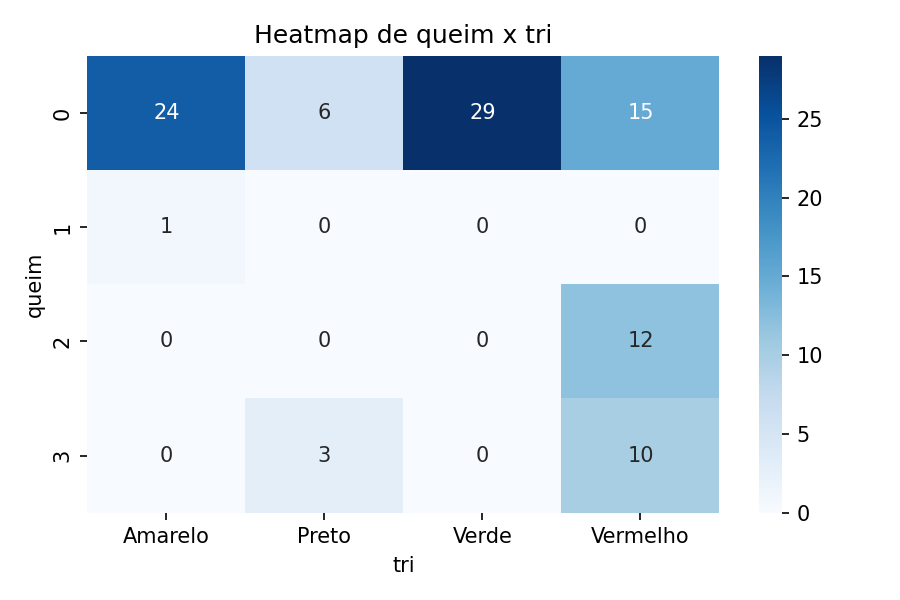
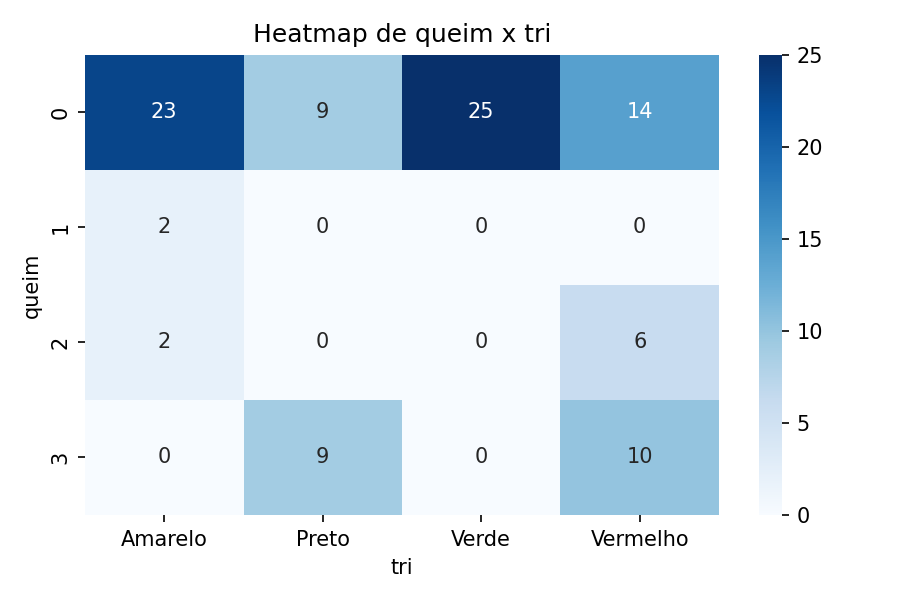
regerado por causa de mudança na ordem dos atributos

diff --git a/datasets/vict/100v/relatorios/summary_cat_x_cat.md b/datasets/vict/100v/relatorios/summary_cat_x_cat.md
@@ -11,19 +11,19 @@ Este relatório apresenta a análise de associação entre variáveis categóric
 
 | avpu   |   Amarelo |   Preto |   Verde |   Vermelho |
 |:-------|----------:|--------:|--------:|-----------:|
-| A      |        10 |       0 |      28 |          0 |
-| P      |         0 |       0 |       1 |         37 |
-| U      |         0 |       9 |       0 |          0 |
-| V      |        15 |       0 |       0 |          0 |
+| A      |        13 |       0 |      25 |          0 |
+| P      |         0 |       0 |       0 |         30 |
+| U      |         0 |      18 |       0 |          0 |
+| V      |        14 |       0 |       0 |          0 |
 
 ### Tabela de Proporções por Linha (%)
 
 | avpu   |   Amarelo |   Preto |   Verde |   Vermelho |
 |:-------|----------:|--------:|--------:|-----------:|
-| A      |     26.32 |       0 |   73.68 |       0    |
-| P      |      0    |       0 |    2.63 |      97.37 |
-| U      |      0    |     100 |    0    |       0    |
-| V      |    100    |       0 |    0    |       0    |
+| A      |     34.21 |       0 |   65.79 |          0 |
+| P      |      0    |       0 |    0    |        100 |
+| U      |      0    |     100 |    0    |          0 |
+| V      |    100    |       0 |    0    |          0 |
 
 ### Heatmap
 
@@ -35,7 +35,7 @@ Este relatório apresenta a análise de associação entre variáveis categóric
 
 ### Teste Qui-Quadrado
 
-- Qui2 = 239.1289
+- Qui2 = 234.1131
 - p-valor = 0.0000
 - Graus de liberdade = 9
 
@@ -47,19 +47,19 @@ Este relatório apresenta a análise de associação entre variáveis categóric
 
 |   queim |   Amarelo |   Preto |   Verde |   Vermelho |
 |--------:|----------:|--------:|--------:|-----------:|
-|       0 |        24 |       6 |      29 |         15 |
-|       1 |         1 |       0 |       0 |          0 |
-|       2 |         0 |       0 |       0 |         12 |
-|       3 |         0 |       3 |       0 |         10 |
+|       0 |        23 |       9 |      25 |         14 |
+|       1 |         2 |       0 |       0 |          0 |
+|       2 |         2 |       0 |       0 |          6 |
+|       3 |         0 |       9 |       0 |         10 |
 
 ### Tabela de Proporções por Linha (%)
 
 |   queim |   Amarelo |   Preto |   Verde |   Vermelho |
 |--------:|----------:|--------:|--------:|-----------:|
-|       0 |     32.43 |    8.11 |   39.19 |      20.27 |
+|       0 |     32.39 |   12.68 |   35.21 |      19.72 |
 |       1 |    100    |    0    |    0    |       0    |
-|       2 |      0    |    0    |    0    |     100    |
-|       3 |      0    |   23.08 |    0    |      76.92 |
+|       2 |     25    |    0    |    0    |      75    |
+|       3 |      0    |   47.37 |    0    |      52.63 |
 
 ### Heatmap
 
@@ -71,7 +71,7 @@ Este relatório apresenta a análise de associação entre variáveis categóric
 
 ### Teste Qui-Quadrado
 
-- Qui2 = 48.8622
+- Qui2 = 43.8337
 - p-valor = 0.0000
 - Graus de liberdade = 9
 
@@ -83,19 +83,19 @@ Este relatório apresenta a análise de associação entre variáveis categóric
 
 |   sg |   Amarelo |   Preto |   Verde |   Vermelho |
 |-----:|----------:|--------:|--------:|-----------:|
-|    0 |         0 |       0 |      28 |          0 |
+|    0 |         0 |       0 |      25 |          0 |
 |    1 |        11 |       0 |       0 |          0 |
-|    2 |        14 |       0 |       0 |          0 |
-|    3 |         0 |       9 |       1 |         37 |
+|    2 |        16 |       0 |       0 |          0 |
+|    3 |         0 |      18 |       0 |         30 |
 
 ### Tabela de Proporções por Linha (%)
 
 |   sg |   Amarelo |   Preto |   Verde |   Vermelho |
 |-----:|----------:|--------:|--------:|-----------:|
-|    0 |         0 |    0    |  100    |       0    |
-|    1 |       100 |    0    |    0    |       0    |
-|    2 |       100 |    0    |    0    |       0    |
-|    3 |         0 |   19.15 |    2.13 |      78.72 |
+|    0 |         0 |     0   |     100 |        0   |
+|    1 |       100 |     0   |       0 |        0   |
+|    2 |       100 |     0   |       0 |        0   |
+|    3 |         0 |    37.5 |       0 |       62.5 |
 
 ### Heatmap
 
@@ -107,7 +107,7 @@ Este relatório apresenta a análise de associação entre variáveis categóric
 
 ### Teste Qui-Quadrado
 
-- Qui2 = 194.4974
+- Qui2 = 200.0000
 - p-valor = 0.0000
 - Graus de liberdade = 9
 
@@ -119,15 +119,15 @@ Este relatório apresenta a análise de associação entre variáveis categóric
 
 |   fx |   Amarelo |   Preto |   Verde |   Vermelho |
 |-----:|----------:|--------:|--------:|-----------:|
-|    0 |        16 |       4 |       0 |          0 |
-|    1 |         9 |       5 |      29 |         37 |
+|    0 |        17 |       7 |       0 |          0 |
+|    1 |        10 |      11 |      25 |         30 |
 
 ### Tabela de Proporções por Linha (%)
 
 |   fx |   Amarelo |   Preto |   Verde |   Vermelho |
 |-----:|----------:|--------:|--------:|-----------:|
-|    0 |     80    |   20    |    0    |       0    |
-|    1 |     11.25 |    6.25 |   36.25 |      46.25 |
+|    0 |     70.83 |   29.17 |    0    |       0    |
+|    1 |     13.16 |   14.47 |   32.89 |      39.47 |
 
 ### Heatmap
 
@@ -139,7 +139,7 @@ Este relatório apresenta a análise de associação entre variáveis categóric
 
 ### Teste Qui-Quadrado
 
-- Qui2 = 50.1111
+- Qui2 = 42.0281
 - p-valor = 0.0000
 - Graus de liberdade = 3
 
@@ -151,27 +151,27 @@ Este relatório apresenta a análise de associação entre variáveis categóric
 
 |   gcs |   Amarelo |   Preto |   Verde |   Vermelho |
 |------:|----------:|--------:|--------:|-----------:|
-|     3 |         0 |       1 |       0 |          0 |
-|     4 |         0 |       6 |       0 |          0 |
-|     5 |         0 |       2 |       0 |          0 |
-|     9 |         0 |       0 |       1 |         12 |
-|    10 |         0 |       0 |       0 |         10 |
-|    11 |         0 |       0 |       0 |         15 |
-|    13 |        25 |       0 |       0 |          0 |
-|    15 |         0 |       0 |      28 |          0 |
+|     3 |         0 |       7 |       0 |          0 |
+|     4 |         0 |       3 |       0 |          0 |
+|     5 |         0 |       8 |       0 |          0 |
+|     9 |         0 |       0 |       0 |         13 |
+|    10 |         0 |       0 |       0 |         11 |
+|    11 |         0 |       0 |       0 |          6 |
+|    13 |        27 |       0 |       0 |          0 |
+|    15 |         0 |       0 |      25 |          0 |
 
 ### Tabela de Proporções por Linha (%)
 
 |   gcs |   Amarelo |   Preto |   Verde |   Vermelho |
 |------:|----------:|--------:|--------:|-----------:|
-|     3 |         0 |     100 |    0    |       0    |
-|     4 |         0 |     100 |    0    |       0    |
-|     5 |         0 |     100 |    0    |       0    |
-|     9 |         0 |       0 |    7.69 |      92.31 |
-|    10 |         0 |       0 |    0    |     100    |
-|    11 |         0 |       0 |    0    |     100    |
-|    13 |       100 |       0 |    0    |       0    |
-|    15 |         0 |       0 |  100    |       0    |
+|     3 |         0 |     100 |       0 |          0 |
+|     4 |         0 |     100 |       0 |          0 |
+|     5 |         0 |     100 |       0 |          0 |
+|     9 |         0 |       0 |       0 |        100 |
+|    10 |         0 |       0 |       0 |        100 |
+|    11 |         0 |       0 |       0 |        100 |
+|    13 |       100 |       0 |       0 |          0 |
+|    15 |         0 |       0 |     100 |          0 |
 
 ### Heatmap
 
@@ -183,7 +183,7 @@ Este relatório apresenta a análise de associação entre variáveis categóric
 
 ### Teste Qui-Quadrado
 
-- Qui2 = 294.3222
+- Qui2 = 300.0000
 - p-valor = 0.0000
 - Graus de liberdade = 21
 

diff --git a/datasets/vict/100v/summary.md b/datasets/vict/100v/summary.md
@@ -4,57 +4,57 @@
 - **Número de linhas**: 100
 
 ## Estatísticas (numéricas)
-| coluna   |   mín |   máx |   média |
-|:---------|------:|------:|--------:|
-| idade    | 17    |    54 |  33.99  |
-| fc       |  0    |   166 | 103.43  |
-| fr       |  0    |    46 |  24.94  |
-| pas      |  0    |   138 |  87.31  |
-| spo2     | 14    |   100 |  83.79  |
-| gcs      |  3    |    15 |  11.64  |
-| sobr     |  0.03 |     1 |   0.667 |
+| coluna   |   mín |    máx |   média |
+|:---------|------:|-------:|--------:|
+| idade    | 13    |  70    |  39.84  |
+| fc       |  0    | 157    |  91.04  |
+| fr       |  0    |  44    |  21.68  |
+| pas      |  0    | 127    |  79.29  |
+| spo2     | 10    |  99    |  79.4   |
+| gcs      |  3    |  15    |  10.92  |
+| sobr     |  0.01 |   0.99 |   0.638 |
 
 ## Contagem por valor (categóricas)
 ### `pr`
 |   código | valor   |   contagem | %      |
 |---------:|:--------|-----------:|:-------|
-|        0 | N       |         61 | 61.00% |
-|        1 | S       |         39 | 39.00% |
+|        0 | N       |         58 | 58.00% |
+|        1 | S       |         42 | 42.00% |
 
 ### `queim`
 |   código | valor    |   contagem | %      |
 |---------:|:---------|-----------:|:-------|
-|        0 | NAO      |         74 | 74.00% |
-|        1 | LEVE     |          1 | 1.00%  |
-|        2 | MODERADO |         12 | 12.00% |
-|        3 | GRAVE    |         13 | 13.00% |
+|        0 | NAO      |         71 | 71.00% |
+|        1 | LEVE     |          2 | 2.00%  |
+|        2 | MODERADO |          8 | 8.00%  |
+|        3 | GRAVE    |         19 | 19.00% |
 
 ### `fx`
 |   código | valor   |   contagem | %      |
 |---------:|:--------|-----------:|:-------|
-|        0 | N       |         20 | 20.00% |
-|        1 | S       |         80 | 80.00% |
+|        0 | N       |         24 | 24.00% |
+|        1 | S       |         76 | 76.00% |
 
 ### `sg`
 |   código | valor    |   contagem | %      |
 |---------:|:---------|-----------:|:-------|
-|        0 | NAO      |         28 | 28.00% |
+|        0 | NAO      |         25 | 25.00% |
 |        1 | LEVE     |         11 | 11.00% |
-|        2 | MODERADO |         14 | 14.00% |
-|        3 | GRAVE    |         47 | 47.00% |
+|        2 | MODERADO |         16 | 16.00% |
+|        3 | GRAVE    |         48 | 48.00% |
 
 ### `avpu`
 |   código | valor   |   contagem | %      |
 |---------:|:--------|-----------:|:-------|
 |        0 | A       |         38 | 38.00% |
-|        1 | V       |         15 | 15.00% |
-|        2 | P       |         38 | 38.00% |
-|        3 | U       |          9 | 9.00%  |
+|        1 | V       |         14 | 14.00% |
+|        2 | P       |         30 | 30.00% |
+|        3 | U       |         18 | 18.00% |
 
 ### `tri`
 |   código | valor    |   contagem | %      |
 |---------:|:---------|-----------:|:-------|
-|        0 | VERDE    |         29 | 29.00% |
-|        1 | AMARELO  |         25 | 25.00% |
-|        2 | VERMELHO |         37 | 37.00% |
-|        3 | PRETO    |          9 | 9.00%  |
+|        0 | VERDE    |         25 | 25.00% |
+|        1 | AMARELO  |         27 | 27.00% |
+|        2 | VERMELHO |         30 | 30.00% |
+|        3 | PRETO    |         18 | 18.00% |

diff --git a/datasets/vict/100v/relatorios/summary_correlations.md b/datasets/vict/100v/relatorios/summary_correlations.md
@@ -10,7 +10,7 @@ Este relatório apresenta a análise de correlação entre variáveis numéricas
 
 ## fc × sobr
 
-- r = -0.017, p = 0.866, N = 100, modo = LOWESS
+- r = 0.414, p = 1.85e-05, N = 100, modo = LOWESS
 
 ![fc × sobr](figs/correlacao_fc_sobr.png)
 
@@ -19,7 +19,7 @@ Este relatório apresenta a análise de correlação entre variáveis numéricas
 
 ## fr × sobr
 
-- r = -0.195, p = 0.052, N = 100, modo = LOWESS
+- r = 0.211, p = 0.035, N = 100, modo = LOWESS
 
 ![fr × sobr](figs/correlacao_fr_sobr.png)
 
@@ -28,7 +28,7 @@ Este relatório apresenta a análise de correlação entre variáveis numéricas
 
 ## pas × sobr
 
-- r = 0.838, p = 1.81e-27, N = 100, modo = Linear
+- r = 0.924, p = 1.35e-42, N = 100, modo = Linear
 
 ![pas × sobr](figs/correlacao_pas_sobr.png)
 
@@ -37,7 +37,7 @@ Este relatório apresenta a análise de correlação entre variáveis numéricas
 
 ## spo2 × sobr
 
-- r = 0.713, p = 9.24e-17, N = 100, modo = LOWESS
+- r = 0.834, p = 4.41e-27, N = 100, modo = Linear
 
 ![spo2 × sobr](figs/correlacao_spo2_sobr.png)
 
@@ -46,7 +46,7 @@ Este relatório apresenta a análise de correlação entre variáveis numéricas
 
 ## gcs × sobr
 
-- r = 0.839, p = 1.26e-27, N = 100, modo = Linear
+- r = 0.937, p = 1.62e-46, N = 100, modo = Linear
 
 ![gcs × sobr](figs/correlacao_gcs_sobr.png)
 

diff --git a/datasets/vict/100v/relatorios/summary_avpu_sobr.md b/datasets/vict/100v/relatorios/summary_avpu_sobr.md
@@ -3,12 +3,12 @@
 - **Arquivo**: `data.csv`
 - **Linhas válidas p/ análise**: 100
 
-- **Eta (razão de correlação)**: 0.8910
+- **Eta (razão de correlação)**: 0.9487
 
   Eta mede quanto da variabilidade total de uma variável numérica pode ser explicada por uma variável categórica.
 
   Valores próximos de 0 indicam associação fraca e quanto mais próximos de 1, mais forte.
-- **ANOVA**: F=123.2839, p=8.329e-33
+- **ANOVA**: F=287.9134, p=7.58e-48
 
   Mede se as médias da variável numérica são significativamente diferentes para os valores da variável categórica.
 
@@ -19,10 +19,10 @@
 ## Estatísticas por categoria
 | avpu   |   N |   mean |   std |   ci95_lo |   ci95_hi |
 |:-------|----:|-------:|------:|----------:|----------:|
-| A      |  38 |  0.935 | 0.066 |     0.914 |     0.957 |
-| V      |  15 |  0.83  | 0.068 |     0.793 |     0.867 |
-| P      |  38 |  0.46  | 0.209 |     0.391 |     0.529 |
-| U      |   9 |  0.139 | 0.074 |     0.082 |     0.195 |
+| A      |  38 |  0.91  | 0.064 |     0.889 |     0.931 |
+| V      |  14 |  0.843 | 0.048 |     0.815 |     0.871 |
+| P      |  30 |  0.499 | 0.147 |     0.444 |     0.554 |
+| U      |  18 |  0.137 | 0.088 |     0.093 |     0.181 |
 
 ## Gráficos
 ![Boxplot e dispersão](figs/avpu_sobr_box_scatter.png)
